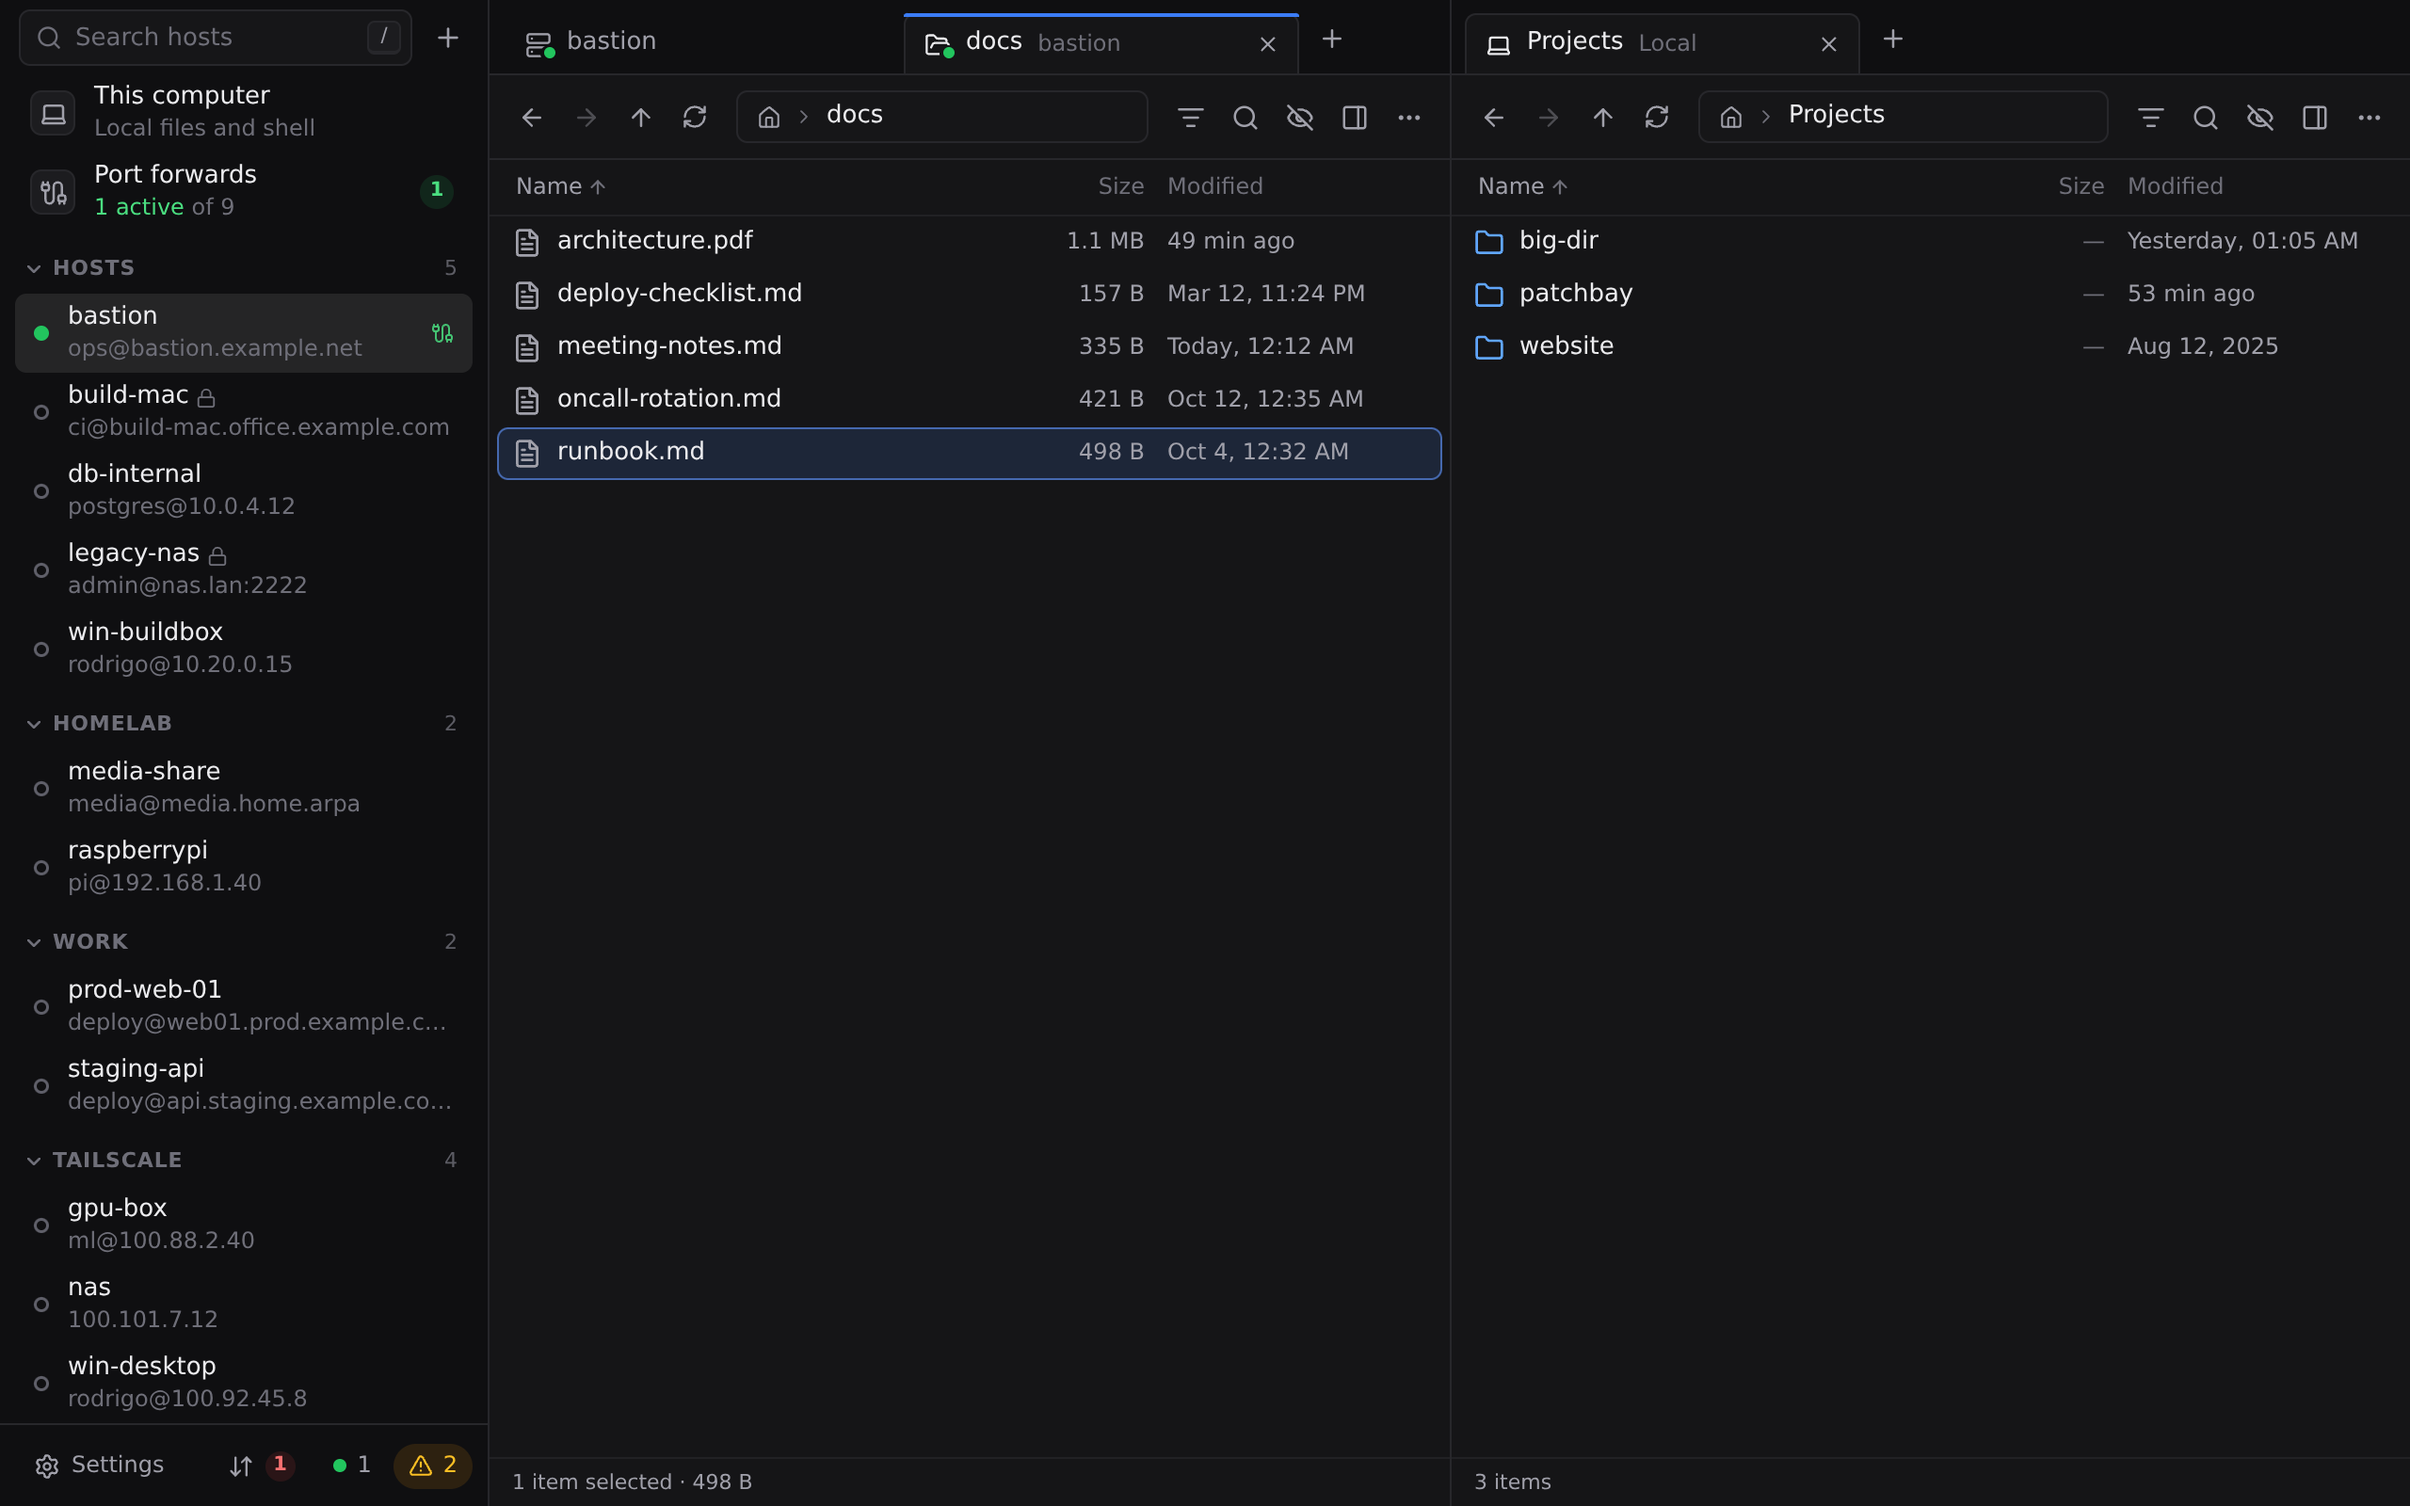
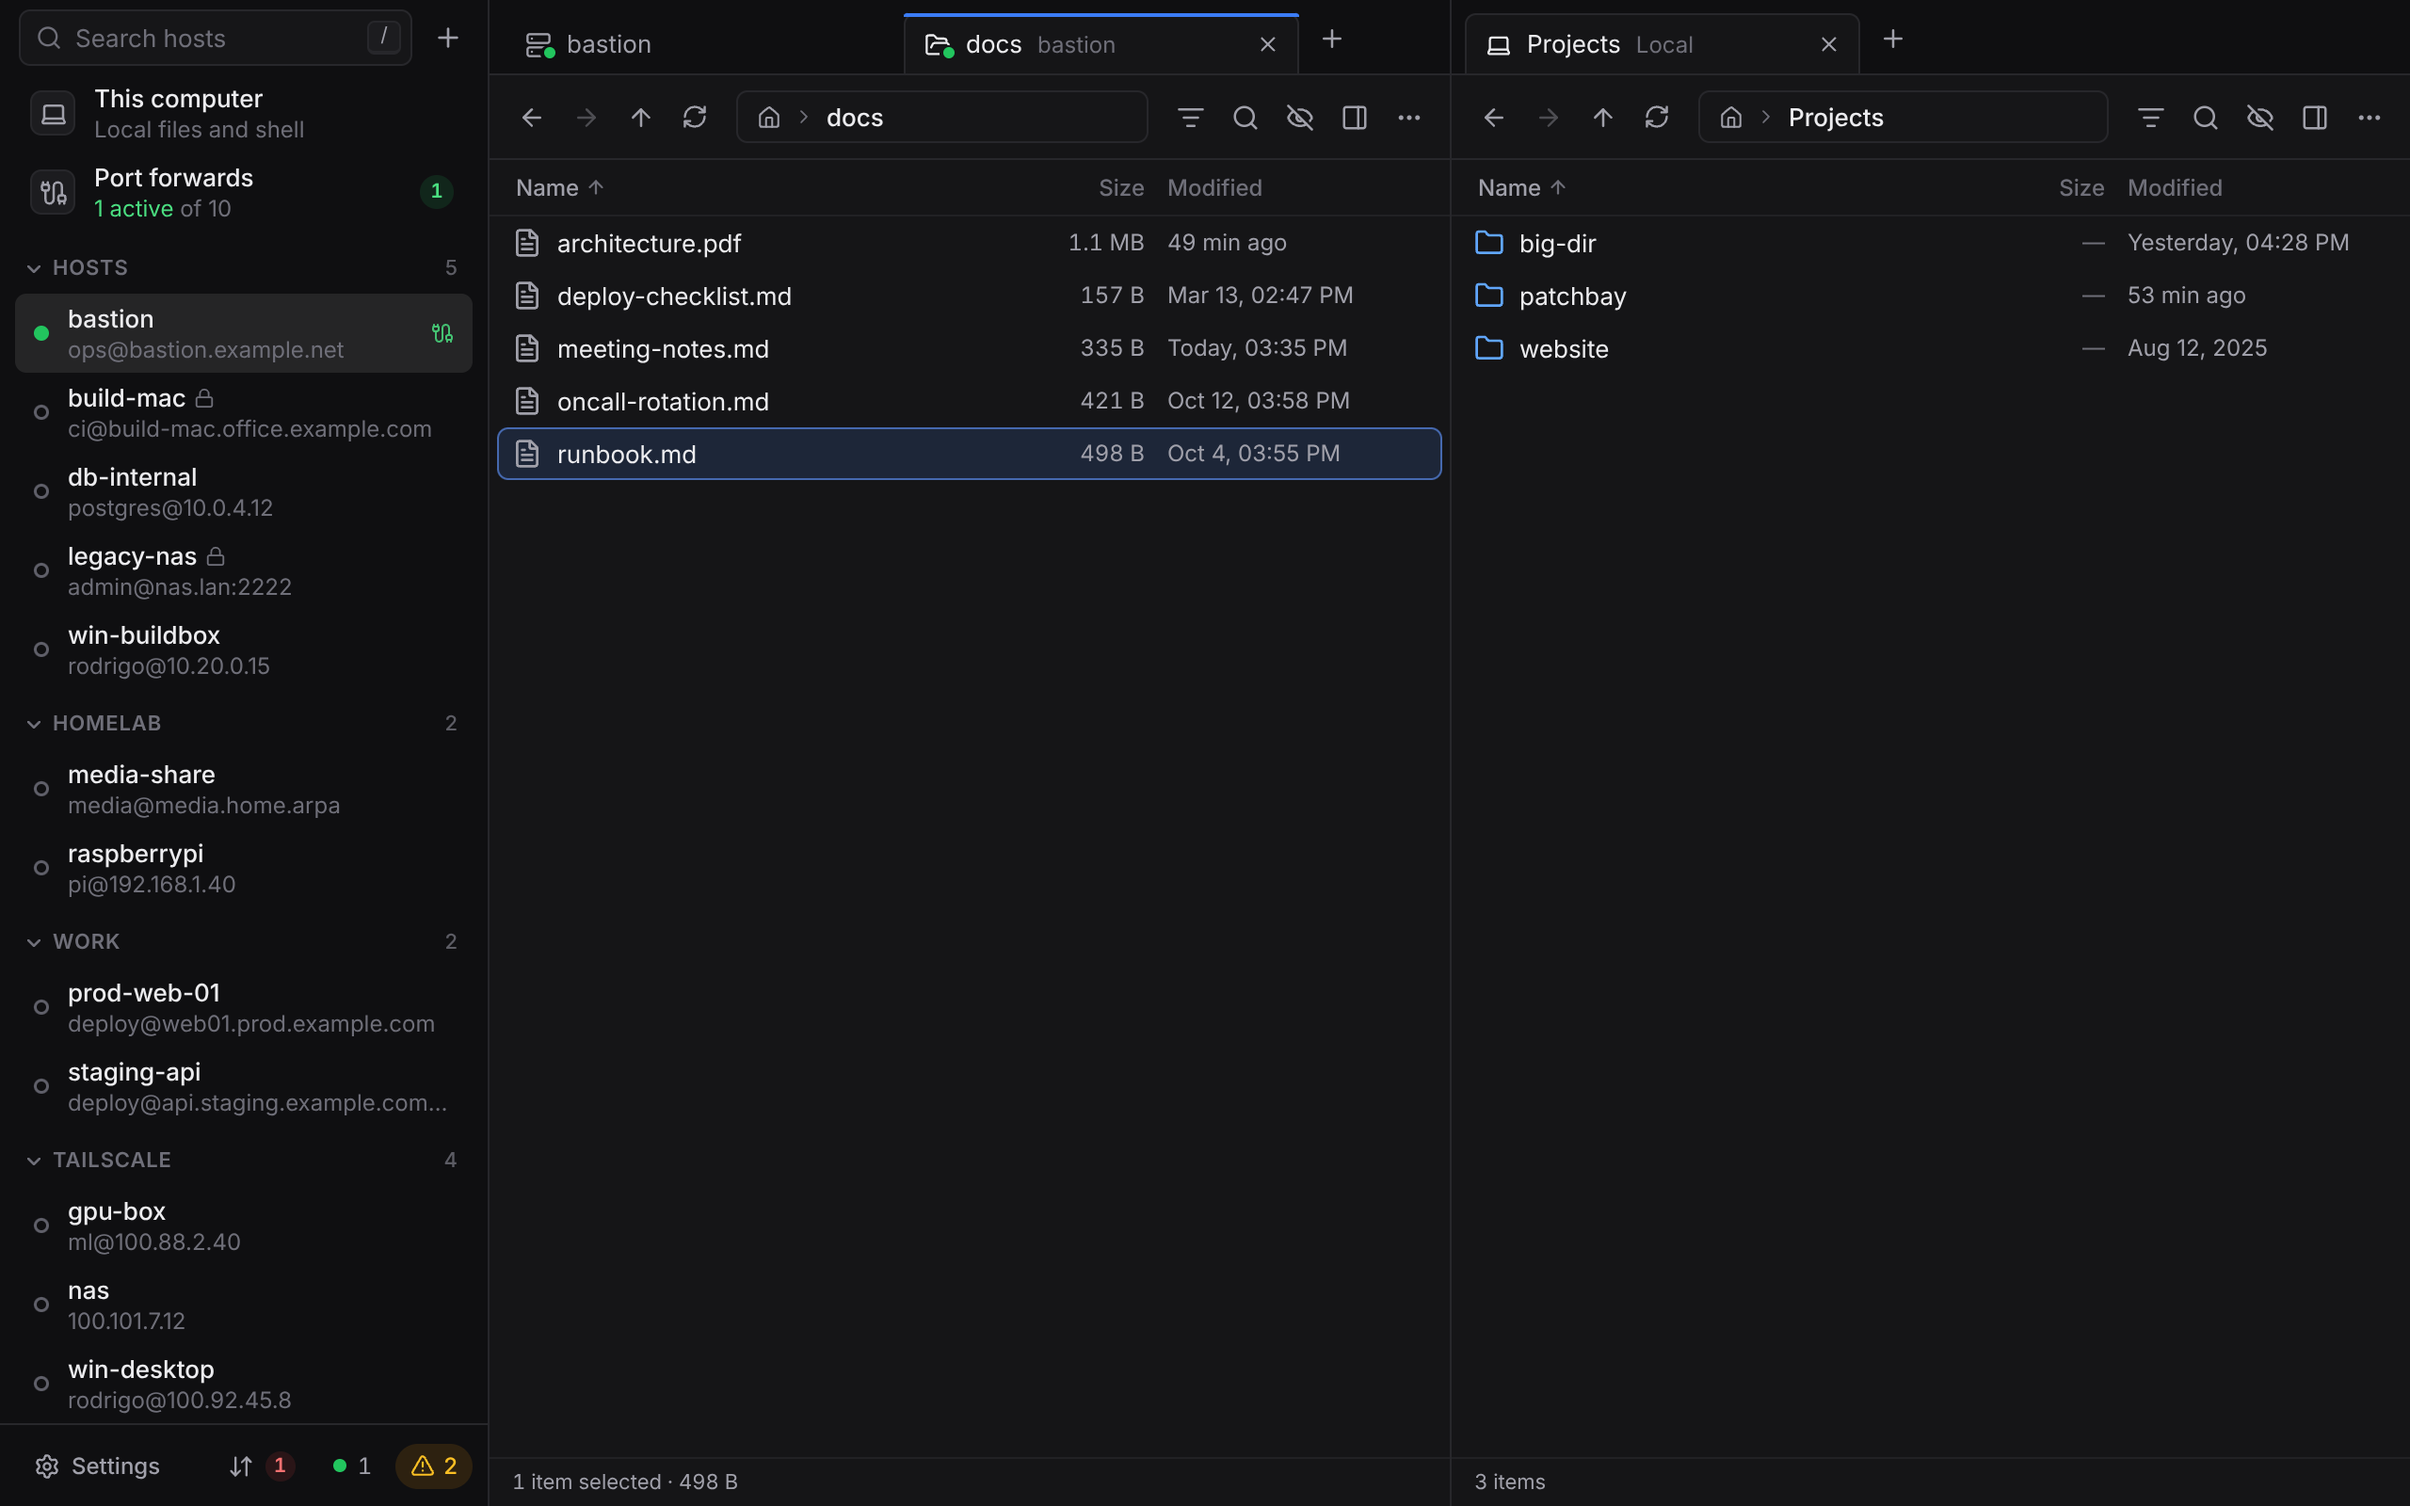
Show the port forward dialog in the README, retake screenshots with Inter

diff --git a/README.md b/README.md
@@ -49,6 +49,10 @@ servers. It runs on Windows, macOS and Linux, and it's free and open source.
 - **It picks up where you left off.** Your tabs come back when you restart, and the app
   updates itself.
 
+<p align="center">
+  <img src="assets/screenshot-forward.png" width="900" alt="The port forward dialog: a route from this computer over SSH to a server, with one-click presets for common services">
+</p>
+
 ## Install
 
 Download the latest version from the
